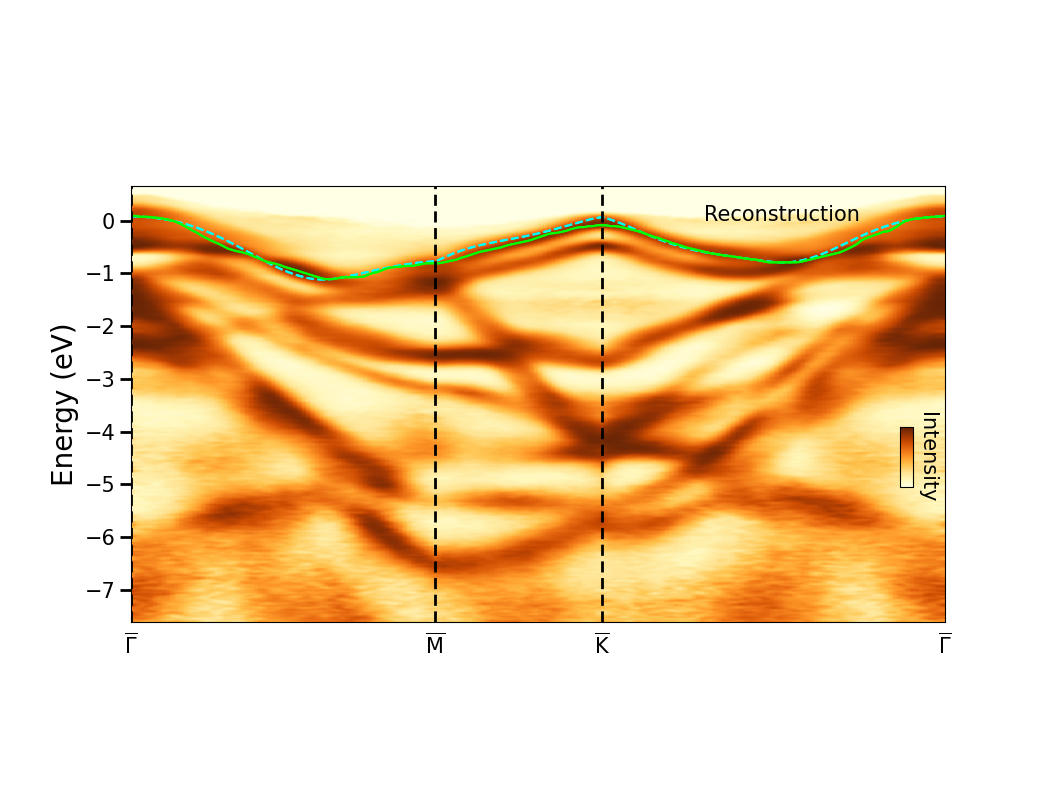
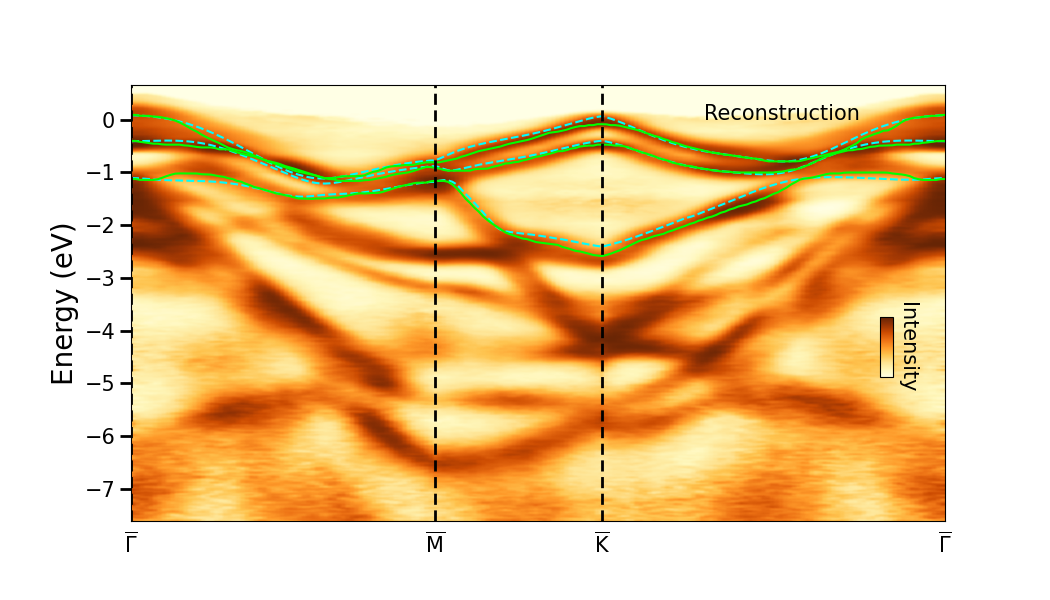
multiband reconst

diff --git a/scripts/band_reconstruction.py b/scripts/band_reconstruction.py
@@ -1,5 +1,4 @@
 import pickle
-import matplotlib.pyplot as plt
 from fuller.mrfRec import MrfRec
 from fuller.utils import loadHDF
 from visualize_dft_bands import plot_bs
@@ -11,8 +10,6 @@ E = data['E']
 kx = data['kx']
 ky = data['ky']
 I = data['V']
-
-print(E.shape, kx.shape, ky.shape, I.shape)
 
 # Create MRF model
 print("creating mrf model...")
@@ -26,64 +23,51 @@ path_dft = '../data/theory/WSe2_PBEsol_bands.mat'
 
 def reconstruct(**kwargs):
     """
-    Wrapper function for reconstructing band structure given some parameters
+    Reconstructs a single band with hyperparameters\n
+
+    parameters:\n
+    **kwargs:\n
+    offset: float\n
+    k_scale: flaot\n
+    eta: float\n
+    n_epochs: int\n
     """
 
     # there is a total of 80 different bands
     offset = kwargs['offset']
     k_scale = kwargs['k_scale']
+    eta = kwargs['eta']
+    n_epochs = kwargs['n_epochs']
 
     kx_dft, ky_dft, E_dft = mrf.loadBandsMat(path_dft)
-    print("band structure shape:", E_dft.shape)
 
     # possible modify source to train multiple bands at once
-    mrf.initializeBand(kx=kx_dft, ky=ky_dft, Eb=E_dft[band_index,...], offset=offset, kScale=k_scale, flipKAxes=True)
+    mrf.initializeBand(kx=kx_dft, ky=ky_dft, Eb=E_dft[2*band_index+1,...], offset=offset, kScale=k_scale, flipKAxes=True)
 
     # save the E0 as either an h5 or pickled file
-    with open(f'../results/band_data/init_band_{band_index}.pkl', 'wb') as f:
+    with open(f'../results/band_data/init_band_n={band_index}_epoch={n_epochs}.pkl', 'wb') as f:
       pickle.dump(mrf.E0, f) # serialize the list
 
     # Run optimization to perform reconstruction
     print("training model...")
 
-    eta = kwargs['eta']
-    n_epochs = kwargs['n_epochs']
-
     mrf.eta = eta
-    mrf.iter_para(n_epochs, updateLogP=True)
-
-    # Plot results
-    print("plotting reconstructed bands...")
-    mrf.plotBands(surfPlot=True)
-    plt.tight_layout()
-    plt.savefig("../results/reconstruction/bs_surface")
-
-    mrf.plotI(ky=0, plotBand=True, plotBandInit=True, cmapName='YlOrBr', bandColor='cyan', initColor='lime')
-    plt.tight_layout()
-    plt.savefig("../results/reconstruction/band_ky_0")
-
-    mrf.plotI(kx=0, plotBand=True, plotBandInit=True, cmapName='YlOrBr', bandColor='cyan', initColor='lime')
-    plt.tight_layout()
-    plt.savefig("../results/reconstruction/band_kx_0")
-
-    # plot loss
-    mrf.plotLoss()
-    plt.savefig('../results/reconstruction/loss')
+    # due to limited memory on laptop, reset graph every iteration
+    mrf.iter_para(n_epochs, graph_reset=True) # if plotting objective vs loss, then set updatelogP=True
 
     # Save results
-    path_save = '../results/band_data/'
-    mrf.saveBand(f"{path_save}mrf_rec_{band_index}.h5", index=band_index)
-
-    # think about maybe serializing the mrf for later use
+    mrf.saveBand(f"../results/band_data/bs_recon_n={band_index}_epoch={n_epochs}.h5", index=band_index)
 
 # parameter
-num_bands = 15
+num_bands = 14 # there are around 80 different spin-split energy bands, but after the 14th, the energy levels are well beyond -20eV
 n_epochs = [10, 20, 30, 40, 50, 60, 70, 80, 90, 100]
 
-# call the wrapper function
-# kwargs: band_index, offset, k_scale, eta, n_epochs
+
+# use the odd-indexed bands, even-indexed bands giving errors
+
 for epoch in n_epochs:
   for band_index in range(num_bands):
-      print(f"reconstructing the {band_index}th band, epoch={epoch}...")
-      reconstruct(band_index=band_index, offset=0.6, k_scale=1.1, eta=0.1, n_epochs=epoch)
-      plot_bs(num_bands, epoch)
+      print(f"reconstructing the {band_index}th band, epoch={epoch}, bi={2*band_index+1}...")
+      reconstruct(band_index=2*band_index+1, offset=0.6, k_scale=1.1, eta=0.1, n_epochs=epoch)
+
+  plot_bs(num_bands, epoch)

diff --git a/scripts/visualize_dft_bands.py b/scripts/visualize_dft_bands.py
@@ -18,7 +18,7 @@ def plot_bs(num_bands, n_epoch):
 
     # Load preprocessed photoemission data
     bcsm = np.load('../data/processed/hslines/WSe2_vcut.npy')
-    Evals = fp.readBinnedhdf5('../data/pes/3_smooth.h5')['E']
+    Evals = fp.readBinnedhdf5('../results/preprocessing/WSe2_preprocessed.h5')['E']
     ehi, elo = Evals[0], Evals[469]
 
     paths = np.load('../data/processed/hslines/WSe2_kpath.npz')
@@ -30,12 +30,12 @@ def plot_bs(num_bands, n_epoch):
 
     for i in range(num_bands):
         # initialization bands
-        with open(f'../results/band_data/init_band_{i}.pkl', 'rb') as f:
+        with open(f'../results/band_data/init_band_n={i}_epoch={n_epoch}.pkl', 'rb') as f:
             init_band = pickle.load(f)
             init_bands[i] = init_band
 
         # reconstructed bands
-        recon_band = loadHDF(f'../results/band_data/mrf_rec_{i}.h5')
+        recon_band = loadHDF(f'../results/band_data/bs_recon_n={i}_epoch={n_epoch}.h5')
         kx, ky, Eb = recon_band['kx'], recon_band['ky'], recon_band['Eb']
         Eb.reshape(256, 256)
         recon_bands[i] = Eb
@@ -49,7 +49,7 @@ def plot_bs(num_bands, n_epoch):
     pos = paths['pathInds']
     pos[-1] -= 1
 
-    ff, axa = plt.subplots(1, 1, figsize=(10.5, 8))
+    ff, axa = plt.subplots(1, 1, figsize=(10.5, 6))
     im = axa.imshow(bcsm, cmap='YlOrBr', extent=[0, 185, elo, ehi], aspect=12)
 
     for ib in range(num_bands): # normally set to 14
@@ -68,8 +68,11 @@ def plot_bs(num_bands, n_epoch):
             axa.axvline(x=p, c='k', ls='--', lw=2, dashes=[4, 2])
             
     axa.set_title('Reconstruction', fontsize=15, x=0.8, y=0.9)
-    cax = inset_axes(axa, width="3%", height="30%", bbox_to_anchor=(480, 180, 440, 200))
+    cax = inset_axes(axa, width="3%", height="30%", bbox_to_anchor=(460, 90, 440, 200))
     cb = plt.colorbar(im, cax=cax, ticks=[])
     cb.ax.set_ylabel('Intensity', fontsize=15, rotation=-90, labelpad=17)
 
     plt.savefig(f'../results/reconstruction/bs_recon_{n_epoch}.png')
+
+if __name__=="__main__":
+    plot_bs(8, 10)

diff --git a/scripts/bs_epoch_gif.py b/scripts/bs_epoch_gif.py
@@ -1,0 +1,8 @@
+import imageio
+
+images = []
+
+for i in range(10, 110, 10):
+    images.append(imageio.imread(f"../results/reconstruction/bs_recon_{i}.png"))
+
+imageio.mimsave(f'../results/reconstruction/bs_recon.gif', images)
